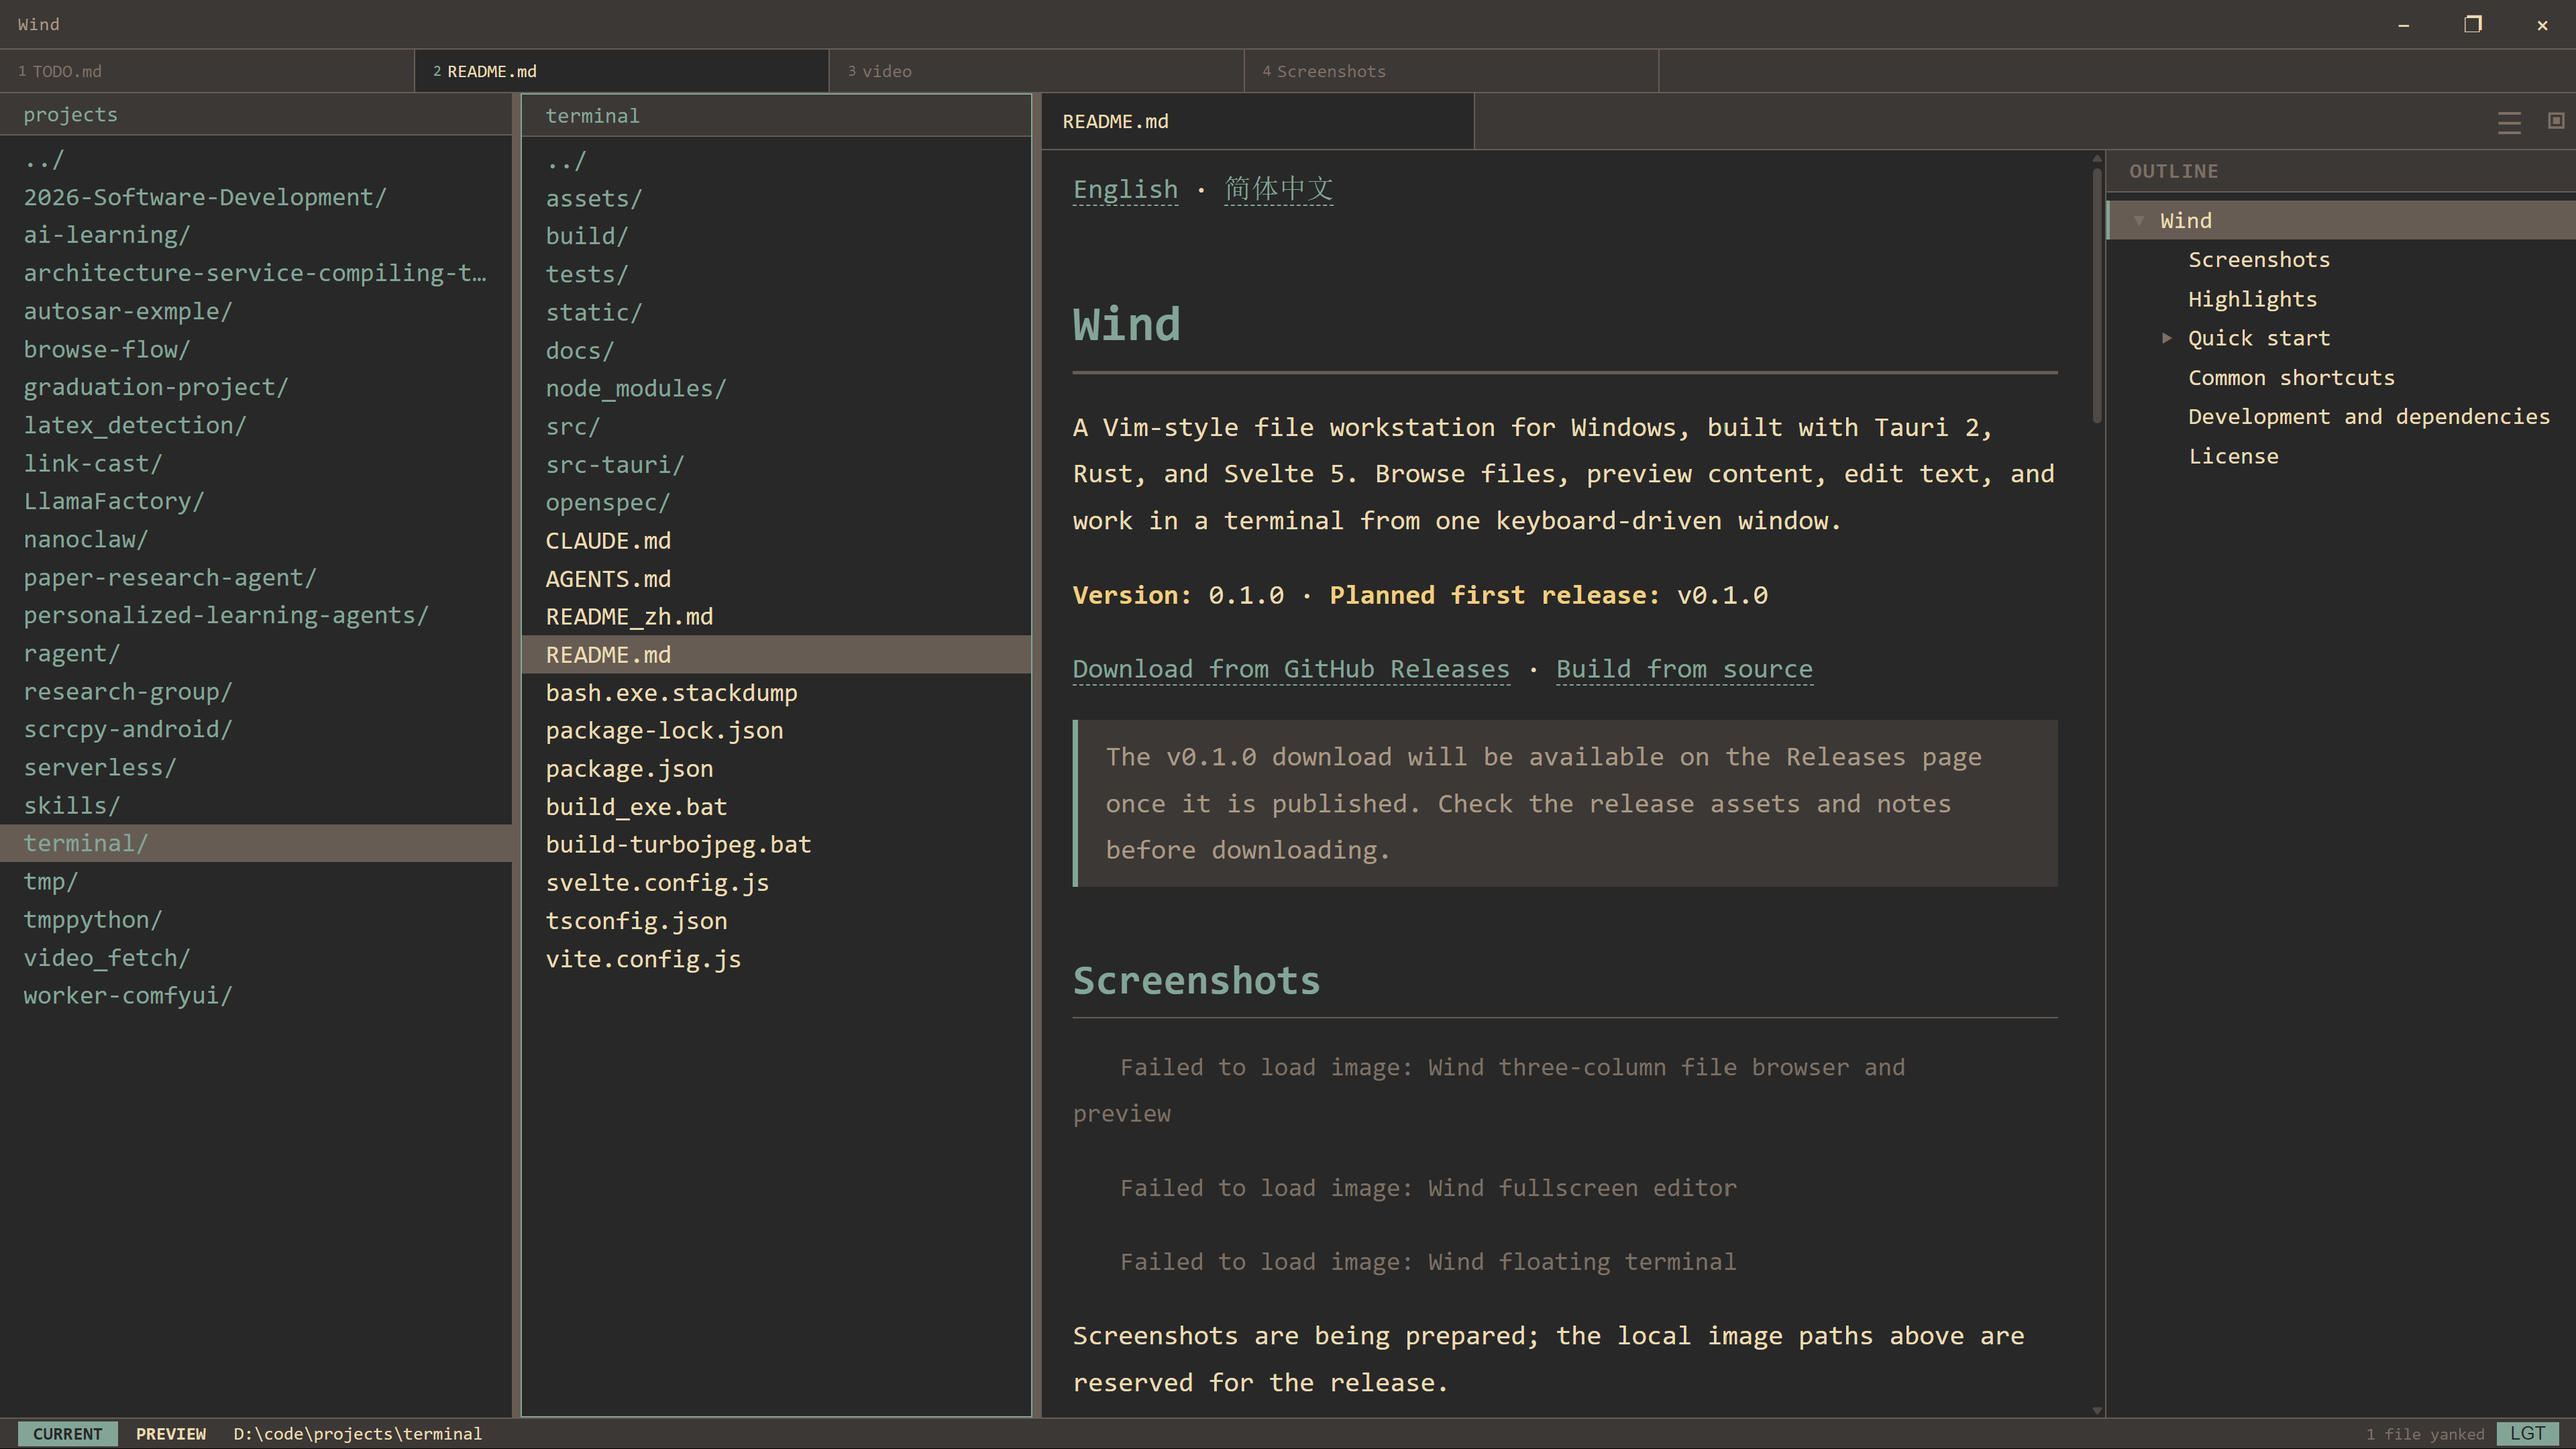
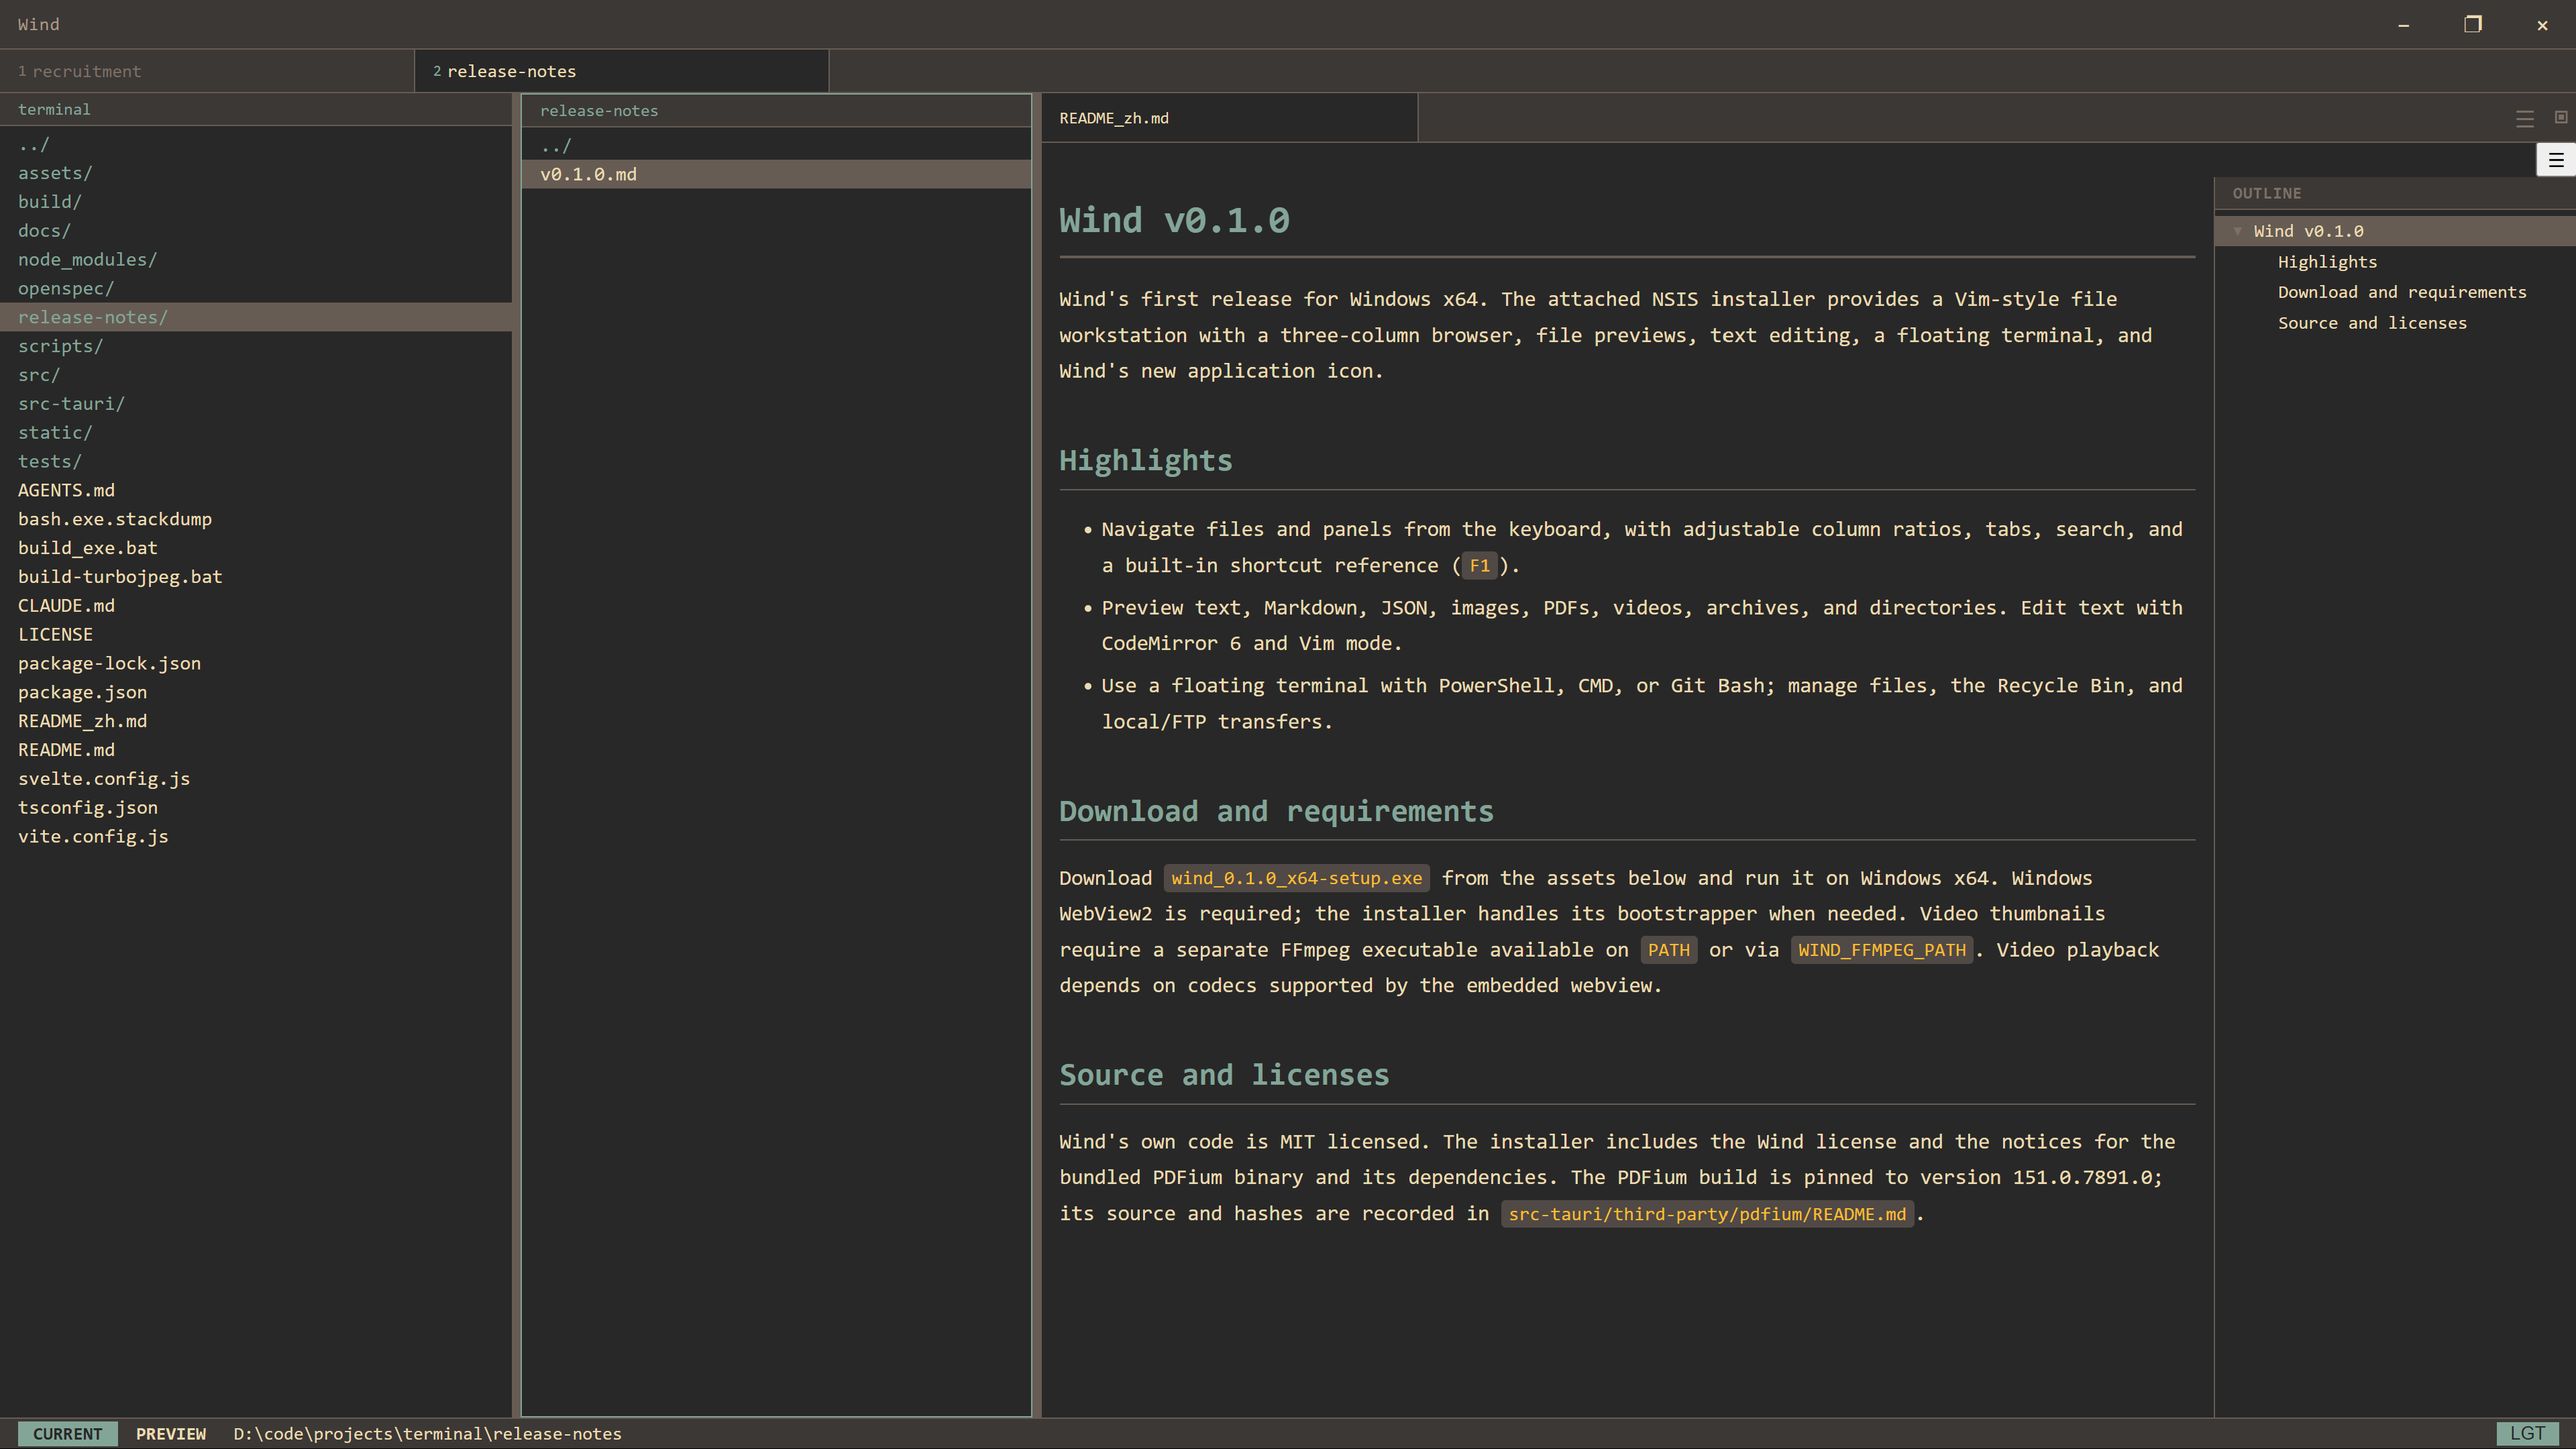
docs: keep one release screenshot

diff --git a/README.md b/README.md
@@ -14,11 +14,6 @@ A Vim-style file workstation for Windows, built with Tauri 2, Rust, and Svelte 5
 
 ![Wind three-column file browser and preview](assets/screenshots/01-file-browser.png)
 
-![Wind fullscreen editor](assets/screenshots/02-editor.png)
-
-![Wind floating terminal](assets/screenshots/03-terminal.png)
-
-
 ## Highlights
 
 - **File navigation:** parent directory, current directory, and preview/editor panels; adjustable column ratios and a project tree view.

diff --git a/README_zh.md b/README_zh.md
@@ -14,11 +14,6 @@ Wind 是面向 Windows 的 Vim 风格文件工作站，基于 Tauri 2、Rust 和
 
 ![Wind 三栏文件浏览与预览](assets/screenshots/01-file-browser.png)
 
-![Wind 全屏编辑器](assets/screenshots/02-editor.png)
-
-![Wind 浮动终端](assets/screenshots/03-terminal.png)
-
-
 ## 核心功能
 
 - **文件导航：**父目录、当前目录、预览/编辑器三栏布局，可调整列宽比例，并可切换项目树视图。
